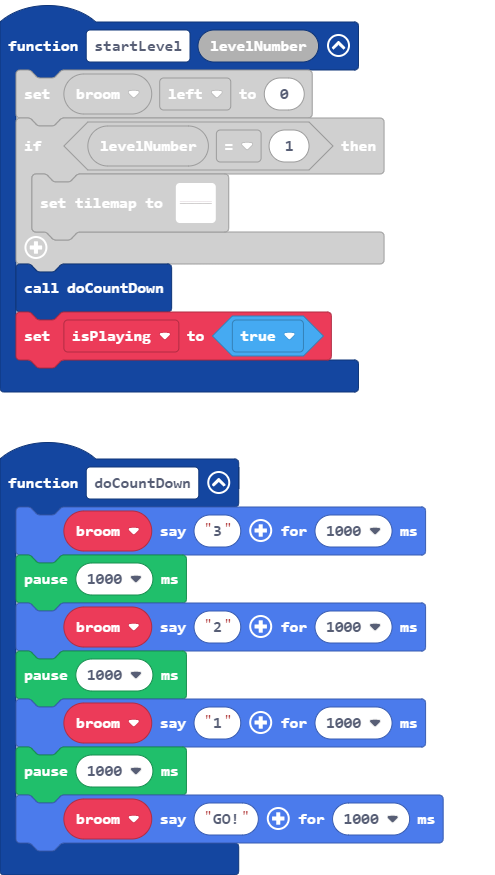
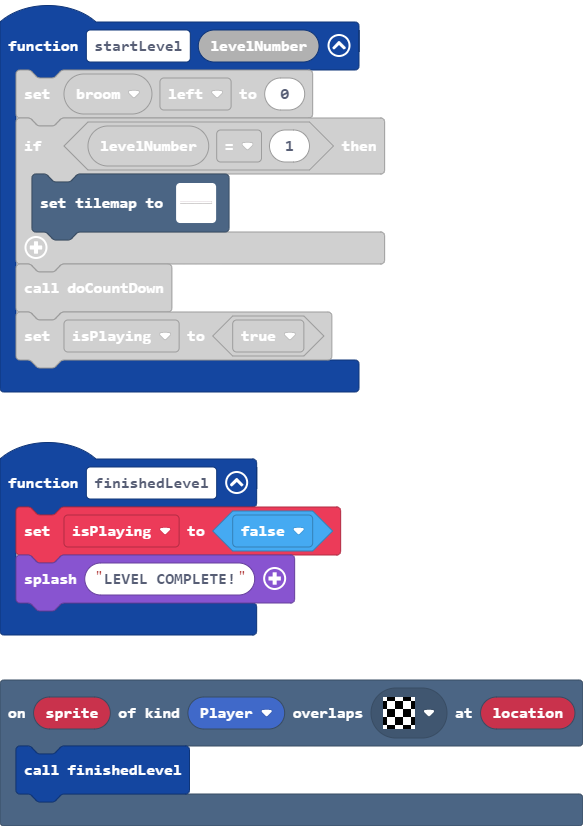
Add finish line.

diff --git a/main.ts b/main.ts
@@ -7,6 +7,10 @@ function doCountDown () {
     pause(1000)
     broom.say("GO!", 1000)
 }
+function finishedLevel () {
+    isPlaying = false
+    game.splash("LEVEL COMPLETE!")
+}
 function startIntro () {
     scene.setBackgroundImage(img`
         6666666666666666666666666666666666666666666666666666666666666666666666666666666666666666666666666666666666666666666666666666666666666666666666666666666666666666
@@ -399,10 +403,13 @@ function startIntro () {
         `)
     game.showLongText("Are you ready?", DialogLayout.Bottom)
 }
+scene.onOverlapTile(SpriteKind.Player, myTiles.tile1, function (sprite, location) {
+    finishedLevel()
+})
 function startLevel (levelNumber: number) {
     broom.left = 0
     if (levelNumber == 1) {
-        tiles.setTilemap(tiles.createTilemap(hex`640008000101010101010101010101010101010101010101010101010101010101010101010101010101010101010101010101010101010101010101010101010101010101010101010101010101010101010101010101010101010101010101010101010101010100000000000000000000000000000000000000000000000000000000000000000000000000000000000000000000000000000000000000000000000000000000000000000000000000000000000000000000000000000000000000000000000000000000000000000000000000000000000000000000000000000000000000000000000000000000000000000000000000000000000000000000000000000000000000000000000000000000000000000000000000000000000000000000000000000000000000000000000000000000000000000000000000000000000000000000000000000000000000000000000000000000000000000000000000000000000000000000000000000000000000000000000000000000000000000000000000000000000000000000000000000000000000000000000000000000000000000000000000000000000000000000000000000000000000000000000000000000000000000000000000000000000000000000000000000000000000000000000000000000000000000000000000000000000000000000000000000000000000000000000000000000000000000000000000000000000000000000000000000000000000000000000000000000000000000000000000000000000000000000000000000000000000000000000000000000000000000000000000000000000000000000000000000000000000000000000000000000000000000000000000000000000000000000000000000000000000000000000000000000000000000000000000000000000000000000000000000000000000000000000002020202020202020202020202020202020202020202020202020202020202020202020202020202020202020202020202020202020202020202020202020202020202020202020202020202020202020202020202020202020202020202020202020202`, img`
+        tiles.setTilemap(tiles.createTilemap(hex`640008000101010101010101010101010101010101010101010101010101010101010101010101010101010101010101010101010101010101010101010101010101010101010101010101010101010101010101010101010101010101010101010101010101010100000000000000000000000000000000000000000000000000000000000000000000000000000000000000000000000000000000000000000000000000000000000000000000000000000000000000000000000000000000000000000000000000000003000000000000000000000000000000000000000000000000000000000000000000000000000000000000000000000000000000000000000000000000000000000000000000000000000000000000000000000000000000000000000000000000000000030000000000000000000000000000000000000000000000000000000000000000000000000000000000000000000000000000000000000000000000000000000000000000000000000000000000000000000000000000000000000000000000000000000300000000000000000000000000000000000000000000000000000000000000000000000000000000000000000000000000000000000000000000000000000000000000000000000000000000000000000000000000000000000000000000000000000003000000000000000000000000000000000000000000000000000000000000000000000000000000000000000000000000000000000000000000000000000000000000000000000000000000000000000000000000000000000000000000000000000000030000000000000000000000000000000000000000000000000000000000000000000000000000000000000000000000000000000000000000000000000000000000000000000000000000000000000000000000000000000000000000000000000000000302020202020202020202020202020202020202020202020202020202020202020202020202020202020202020202020202020202020202020202020202020202020202020202020202020202020202020202020202020202020202020202020202020202`, img`
             2222222222222222222222222222222222222222222222222222222222222222222222222222222222222222222222222222
             ....................................................................................................
             ....................................................................................................
@@ -411,7 +418,7 @@ function startLevel (levelNumber: number) {
             ....................................................................................................
             ....................................................................................................
             2222222222222222222222222222222222222222222222222222222222222222222222222222222222222222222222222222
-            `, [myTiles.transparency16,sprites.builtin.forestTiles28,sprites.builtin.forestTiles6], TileScale.Sixteen))
+            `, [myTiles.transparency16,sprites.builtin.forestTiles28,sprites.builtin.forestTiles6,myTiles.tile1], TileScale.Sixteen))
     }
     doCountDown()
     isPlaying = true

diff --git a/tilemap.g.ts b/tilemap.g.ts
@@ -2,6 +2,8 @@
 namespace myTiles {
     //% fixedInstance jres blockIdentity=images._tile
     export const transparency16 = image.ofBuffer(hex``);
+    //% fixedInstance jres blockIdentity=images._tile
+    export const tile1 = image.ofBuffer(hex``);
 
 }
 // Auto-generated code. Do not edit.
